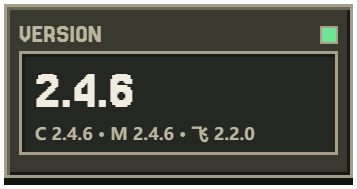
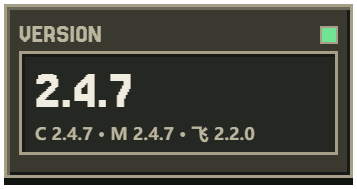
docs(release): 同步 2.4.7 文档、展示图与头图

Changed region(s): [[0.3081, 0.3704, 0.3697, 0.582], [0.2157, 0.6614, 0.2773, 0.7407], [0.4622, 0.6614, 0.493, 0.7407]]

diff --git a/README.md b/README.md
@@ -12,18 +12,18 @@
 </picture>
 
 <p>
-  <a href="https://github.com/Fish-under-sea/FISH-DOCK-Plugins/releases/tag/v2.4.6"><picture><source media="(prefers-color-scheme: dark)" srcset="assets/readme/config-stat-version-zh-dark.png"><img src="assets/readme/config-stat-version-zh-light.png" alt="VERSION：2.4.6（Magpie）；Clash 2.4.6" width="23%"></picture></a>
+  <a href="https://github.com/Fish-under-sea/FISH-DOCK-Plugins/releases/tag/v2.4.7"><picture><source media="(prefers-color-scheme: dark)" srcset="assets/readme/config-stat-version-zh-dark.png"><img src="assets/readme/config-stat-version-zh-light.png" alt="VERSION：2.4.7（Magpie）；Clash 2.4.7" width="23%"></picture></a>
   <a href="#plugins"><picture><source media="(prefers-color-scheme: dark)" srcset="assets/readme/config-stat-desktop-zh-dark.png"><img src="assets/readme/config-stat-desktop-zh-light.png" alt="PLUGINS：三个独立插件" width="23%"></picture></a>
   <a href="#packages"><picture><source media="(prefers-color-scheme: dark)" srcset="assets/readme/config-stat-mail-zh-dark.png"><img src="assets/readme/config-stat-mail-zh-light.png" alt="PACKAGES：三个 npm 单包" width="23%"></picture></a>
   <a href="https://github.com/Fish-under-sea/FISH-Dock"><picture><source media="(prefers-color-scheme: dark)" srcset="assets/readme/config-stat-channels-zh-dark.png"><img src="assets/readme/config-stat-channels-zh-light.png" alt="HOST API：1，兼容 FISH Dock 2.0.0+" width="23%"></picture></a>
 </p>
 
-<p><img src="https://img.shields.io/badge/Node.js-24.14%2B-8fd6a0?style=flat-square&amp;logo=nodedotjs&amp;logoColor=white&amp;labelColor=5a544a" alt="Node.js 24.14+"> <img src="https://img.shields.io/badge/Adapter%20License-MIT-8fd6a0?style=flat-square&amp;labelColor=5a544a" alt="插件适配代码许可 MIT"> <img src="https://img.shields.io/badge/mihomo-GPL--3.0-f08a5d?style=flat-square&amp;labelColor=5a544a" alt="随包 mihomo 许可 GPL-3.0"> <img src="https://img.shields.io/badge/Plugins-2.4.6-8fd6a0?style=flat-square&amp;labelColor=5a544a" alt="Clash 2.4.6 与 Magpie 2.4.6"></p>
+<p><img src="https://img.shields.io/badge/Node.js-24.14%2B-8fd6a0?style=flat-square&amp;logo=nodedotjs&amp;logoColor=white&amp;labelColor=5a544a" alt="Node.js 24.14+"> <img src="https://img.shields.io/badge/Adapter%20License-MIT-8fd6a0?style=flat-square&amp;labelColor=5a544a" alt="插件适配代码许可 MIT"> <img src="https://img.shields.io/badge/mihomo-GPL--3.0-f08a5d?style=flat-square&amp;labelColor=5a544a" alt="随包 mihomo 许可 GPL-3.0"> <img src="https://img.shields.io/badge/Plugins-2.4.7-8fd6a0?style=flat-square&amp;labelColor=5a544a" alt="Clash 2.4.7 与 Magpie 2.4.7"></p>
 <p><strong>FISH Plugins &amp; Configuration · 插件配置仓</strong><br>官方插件、配置说明与发行入口；按需安装，独立运行。</p>
 
 <p>
   <a href="#get-started"><picture><source media="(prefers-color-scheme: dark)" srcset="assets/readme/key-download-zh-dark.png"><img src="assets/readme/key-download-zh-light.png" alt="下载 / Releases" height="40"></picture></a>
-  <a href="https://github.com/Fish-under-sea/FISH-DOCK-Plugins/releases/tag/v2.4.6"><picture><source media="(prefers-color-scheme: dark)" srcset="assets/readme/key-release-zh-dark.png"><img src="assets/readme/key-release-zh-light.png" alt="更新记录" height="40"></picture></a>
+  <a href="https://github.com/Fish-under-sea/FISH-DOCK-Plugins/releases/tag/v2.4.7"><picture><source media="(prefers-color-scheme: dark)" srcset="assets/readme/key-release-zh-dark.png"><img src="assets/readme/key-release-zh-light.png" alt="更新记录" height="40"></picture></a>
   <a href="https://github.com/Fish-under-sea/FISH-DOCK-Plugins/issues"><picture><source media="(prefers-color-scheme: dark)" srcset="assets/readme/key-issues-zh-dark.png"><img src="assets/readme/key-issues-zh-light.png" alt="反馈 / Issues" height="40"></picture></a>
 </p>
 
@@ -33,12 +33,13 @@
 
 这里是 FISH Dock 的插件配置仓，集中提供三个官方插件的功能介绍、配置说明、安装包和更新记录。下载标准 `.fish-plugin` 包后，可在 Dock 的「插件」页导入；也可以通过 npm 获取对应插件归档。
 
-每个插件独立保存配置与凭据，按需启动，不共享业务密钥。插件仓只发布插件资源，桌面安装包请前往 [FISH-Dock](https://github.com/Fish-under-sea/FISH-Dock)。
+每个插件独立保存配置与凭据，按需启动，不共享业务密钥。插件仓只发布插件资源，桌面安装包请前往 [FISH-Dock](https://github.com/Fish-under-sea/FISH-Dock) 。
 
-当前发行（以 `catalog/stable.json` 为唯一权威）：Magpie **2.4.6**（原生标识 `v0.1.4344+fish.46`，要求 FISH Dock ≥ 2.3.4）、Clash **2.4.6**、飞书 **2.2.0**。本版详见 [2.4.6 发行说明](docs/releases/2.4.6.md)（上游基线追平至 `v0.1.4344`、Obsidian 记忆 Agent UX 收敛/全汉化/提示词重写、`0%` 液态玻璃真全透与 Clash 运行提示横幅液态玻璃胶囊）；上版详见 [2.4.5 发行说明](docs/releases/2.4.5.md)。
+当前发行（以 `catalog/stable.json` 为唯一权威）：Magpie **2.4.7**（原生标识 `v0.1.4344+fish.47`，要求 FISH Dock ≥ 2.3.4）、Clash **2.4.7**（要求 FISH Dock ≥ 2.0.0）、飞书 **2.2.0**。本版详见 [2.4.7 发行说明](docs/releases/2.4.7.md) （Magpie 外圈与嵌套液态玻璃、节点/按钮/选中态修复、字体配色命中与紫色 Obsidian 图标；Clash TUN 稳定性、并发锁与网速优化，及输入框/下拉框/设置页交互修复）；上版详见 [2.4.6 发行说明](docs/releases/2.4.6.md) 。
 
-**最近版本**（当前 2.4.6；每一版的完整说明见 [docs/releases](docs/releases)）
+**最近版本**（当前 2.4.7；每一版的完整说明见 [docs/releases](docs/releases) ）
 
+- **2.4.7** · Magpie（`fish.47`）：补全 `.rt`、`.lib-card`、`.msk-*`、`.pr-*`、`.pu-*` 等外圈卡片与内层液态玻璃，清除 `.rt-hub` 4px 黑环与路由组/请求列表等黑块悬浮选中态，统一全站玻璃按钮样式；补齐 `--ctl-fg`、暗色字体权重与全局 `::placeholder` 调色命中；替换 Obsidian 紫色晶石图标。Clash：修复 TUN 服务自删、读写竞态断连、无内核独立开启与并发锁，优化 TUN 网速路由与 DNS 配置，修正输入框次要文字着色、节点组弹窗向下滚动展开、长日志换行与设置页头部 `16px` 边距。→ [说明](docs/releases/2.4.7.md)
 - **2.4.6** · Magpie：追平上游 `v0.1.4344`（`fish.46`），Obsidian 记忆 UX 收敛、`.lib-memrun` 常驻全汉化与一键整理开关、`menuButton` 二次点击关闭、`rules.js` 随包部署、记忆提示词与 `AGENTS.md` 重写（`Sandbox.Write` 允许 `dreams/` 并移除 `memories/` 直接写入），修复 `#000000` 玻璃颜色 `0%` 不透明度仍残余黑底与分隔线及 Agents 页 `Obsidian 记忆 Agent` 详情重叠；Clash：补全 `.banner` 运行提示条 360° Fresnel 液态玻璃胶囊。→ [说明](docs/releases/2.4.6.md)
 - **2.4.5** · Magpie：Obsidian 记忆功能纳入 `.obsidian` 统一工作区正式 Agent（`fish.45`）；用量四页签等 159 条液态玻璃表面规则与独立玻璃颜色（`fishGlassColor`）解耦强调色，修复侧边栏真全透与零滤镜（`fish.44`）。Clash：TUN 服务恢复（`job.ini` 监听/BOM 剥离/`hostGone`）与切换回滚修复，对齐 360° Fresnel 液态玻璃、滚动条/过滤框与下拉交互。→ [说明](docs/releases/2.4.5.md)
 - **2.4.4** · Magpie：外观页签图标补齐；底图遮挡改为 `--wall-veil` 并在滑块松手后重画，从此真正生效；回滚改坏的侧栏内滚；玻璃覆盖改由 `tools/glass-surfaces.mjs` 从 `app.css` 生成。Clash：适配宿主页桥 2 MiB 上限，壁纸预算 1.5 MiB，超限不再假死。→ [说明](docs/releases/2.4.4.md)
@@ -51,39 +52,39 @@
 
 > ⚠ **2.0.0 是 breaking 版本**：插件清单新增 `behaviors` 字段，FISH Dock 1.2.3 及更早的宿主用 `deny_unknown_fields` 解析，会以「plugin.json 格式无效或含未知字段」直接拒装。**旧宿主请先把 Dock 升到 2.0.0**，再安装这些插件。
 
-> ⚠ npm 上 `@fish-under-sea/fish-dock-plugin-clash@1.1.0` 为误发版本（基于旧基线，缺少 1.0.4 的多订阅修复），请勿使用；当前 Magpie 单包是 `2.4.6`、Clash 是 `2.4.6`、飞书是 `2.2.0`，OFM 停在 `2.0.1`（已退役）。
+> ⚠ npm 上 `@fish-under-sea/fish-dock-plugin-clash@1.1.0` 为误发版本（基于旧基线，缺少 1.0.4 的多订阅修复），请勿使用；当前 Magpie 单包是 `2.4.7`、Clash 是 `2.4.7`、飞书是 `2.2.0`，OFM 停在 `2.0.1`（已退役）。
 
 <h2 id="plugins"><picture><source media="(prefers-color-scheme: dark)" srcset="assets/readme/section-features-dark.png"><img src="assets/readme/section-features-light.png" alt="PLUGINS · 三个插件" width="100%"></picture></h2>
 
 ### 飞书通知
 
-群机器人通知、事件筛选和签名配置。Webhook 与签名密钥保存在插件自己的加密凭据空间。作者：WTStarMark、FISH。没有本机服务，插件卡上显示「无需自启动」。
+面向飞书群机器人的消息通知插件，支持事件筛选、消息模版和签名测试。Webhook 与签名密钥保存在插件独立加密凭据空间中，无本机后台服务，插件卡上显示「无需自启动」。作者：WTStarMark、FISH。
 
 <p align="center"><img src="assets/readme/feishu.png" width="760" alt="飞书通知插件界面"></p>
 
 ### Clash 代理
 
-基于 mihomo 的代理管理，提供订阅、节点、规则和系统代理控制。代理内核只绑定回环地址。作者：Elysia395、FISH。
+基于 `mihomo`（`v1.19.15`）内核的桌面代理控制插件，随包内置 `GeoSite.dat` 与 `GeoIP.dat` 规则数据，支持多订阅校验切换、代理组与节点延迟测速、Windows 系统代理接管与自愈看门狗、Windows TUN 虚拟网卡服务管理，以及独立「外观」调节与 360° Fresnel 液态玻璃主题。代理内核仅绑定本地回环地址，与宿主页状态同步互锁。作者：Elysia395、FISH。
 
 <p align="center"><img src="assets/readme/clash.png" width="760" alt="Clash 代理插件界面"></p>
 
 ### Magpie 网关
 
-独立模型网关与原生管理页。管理页、模型网关和 Dock 嵌入代理使用独立回环端口，避免相互占用。网关页与服务页共用一颗「自启动」胶囊，决定服务是否随 Dock 启动；插件卡上是同一份状态。签到页随包内置，按厂商分组、支持一键签到与积分刷新。作者：FISH、Jassdingk。
+独立多模型网关与原生桌面管理页，统一管理订阅源、API Key、智能路由组与用量统计，并内置 Obsidian 知识库记忆 Agent，可直接串联多款本地 Coding Agent。管理页、模型网关与 Dock 嵌入代理各自采用独立回环端口，并与宿主插件卡共用「自启动」开关；界面支持四区域 360° Fresnel 液态玻璃、自定义壁纸与多层级字体配色。扩展页面插件（如「签到 & 探针」与「破甲」）按 npm 包登记并交由 Magpie 自主拉取更新。作者：FISH、Jassdingk。
 
 <p align="center"><img src="assets/readme/magpie.png" width="760" alt="Magpie 网关插件界面"></p>
 
 ### OFM 本地模型（不再随 Dock 显示）
 
-本地模型渠道和 API 工作台。**自 2026 年 10 月 25 日起暂停维护，也不再在 Dock 的插件页里出现**——需要的从 [GitHub Release](https://github.com/Fish-under-sea/FISH-DOCK-Plugins/releases/download/v2.0.1/ofm.fish-plugin) 或 npm 手动装（版本停在 `2.0.1`）。已经装好的版本可以继续用，配置与数据保留；要模型网关请迁移到 Magpie。作者：FISH。
+本地模型渠道和 API 工作台。**自 2026 年 10 月 25 日起暂停维护，也不再在 Dock 的插件页里出现**——需要的可从 [GitHub Release](https://github.com/Fish-under-sea/FISH-DOCK-Plugins/releases/download/v2.0.1/ofm.fish-plugin) 或 npm 手动安装（版本停在 `2.0.1`）。已安装版本可继续使用，配置与数据保留；新用户建议使用 Magpie 网关。作者：FISH。
 
 <h2 id="get-started"><picture><source media="(prefers-color-scheme: dark)" srcset="assets/readme/section-install-dark.png"><img src="assets/readme/section-install-light.png" alt="INSTALL · 安装使用" width="100%"></picture></h2>
 
-安装前先核对宿主版本：Magpie 是 2.4.6（要求 FISH Dock ≥ 2.3.4）、Clash 是 2.4.6、飞书是 2.2.0，**FISH Dock 需要 2.0.0 及以上**；1.2.3 及更早的宿主会因清单里的 `behaviors` 字段拒装。
+安装前先核对宿主版本：Magpie 是 2.4.7（要求 FISH Dock ≥ 2.3.4）、Clash 是 2.4.7、飞书是 2.2.0，**FISH Dock 需要 2.0.0 及以上**；1.2.3 及更早的宿主会因清单里的 `behaviors` 字段拒装。
 
 **方式一：Dock 内插件市场（推荐）**
 
-1. 安装 [FISH Dock 2.0.0](https://github.com/Fish-under-sea/FISH-Dock/releases/tag/v2.0.0)。
+1. 安装 [FISH Dock 2.0.0](https://github.com/Fish-under-sea/FISH-Dock/releases/tag/v2.0.0) 。
 2. 打开「插件」页 →「检查更新」：官方目录（本仓 `catalog/stable.json`）会列出这三个插件，勾选后确认安装。
 3. 安装后确认运行状态；需要账号或订阅的插件，再进入对应页面完成配置。
 
@@ -98,22 +99,22 @@
 | 插件 | GitHub 包 | npm 单包 |
 | --- | --- | --- |
 | 飞书 2.2.0 | [`feishu.fish-plugin`](https://github.com/Fish-under-sea/FISH-DOCK-Plugins/releases/download/v2.2.0/feishu.fish-plugin) | [`@fish-under-sea/fish-dock-plugin-feishu`](https://www.npmjs.com/package/@fish-under-sea/fish-dock-plugin-feishu/v/2.2.0) |
-| Clash 2.4.6 | [`clash.fish-plugin`](https://github.com/Fish-under-sea/FISH-DOCK-Plugins/releases/download/v2.4.6/clash.fish-plugin) | [`@fish-under-sea/fish-dock-plugin-clash`](https://www.npmjs.com/package/@fish-under-sea/fish-dock-plugin-clash/v/2.4.6) |
-| Magpie 2.4.6 | [`magpie.fish-plugin`](https://github.com/Fish-under-sea/FISH-DOCK-Plugins/releases/download/v2.4.6/magpie.fish-plugin) | [`@fish-under-sea/fish-dock-plugin-magpie`](https://www.npmjs.com/package/@fish-under-sea/fish-dock-plugin-magpie/v/2.4.6) |
+| Clash 2.4.7 | [`clash.fish-plugin`](https://github.com/Fish-under-sea/FISH-DOCK-Plugins/releases/download/v2.4.7/clash.fish-plugin) | [`@fish-under-sea/fish-dock-plugin-clash`](https://www.npmjs.com/package/@fish-under-sea/fish-dock-plugin-clash/v/2.4.7) |
+| Magpie 2.4.7 | [`magpie.fish-plugin`](https://github.com/Fish-under-sea/FISH-DOCK-Plugins/releases/download/v2.4.7/magpie.fish-plugin) | [`@fish-under-sea/fish-dock-plugin-magpie`](https://www.npmjs.com/package/@fish-under-sea/fish-dock-plugin-magpie/v/2.4.7) |
 
 <h2 id="packages"><picture><source media="(prefers-color-scheme: dark)" srcset="assets/readme/section-packages-dark.png"><img src="assets/readme/section-packages-light.png" alt="PACKAGES · npm 单包" width="100%"></picture></h2>
 
-每个 npm 包只包含一个对应的插件归档和下载 CLI（bin 名 `fish-dock-plugin-<插件>`），不运行安装后脚本，不修改 Dock 或系统设置。当前 npm 上 **Magpie 是 2.4.6、Clash 是 2.4.6、飞书是 2.2.0**（OFM 单包停在 2.0.1，已退役只供手动下载），要求 **Node.js ≥ 24** 与 **FISH Dock ≥ 2.0.0**。
+每个 npm 包只包含一个对应的插件归档和下载 CLI（bin 名 `fish-dock-plugin-<插件>`），不运行安装后脚本，不修改 Dock 或系统设置。当前 npm 上 **Magpie 是 2.4.7、Clash 是 2.4.7、飞书是 2.2.0**（OFM 单包停在 2.0.1，已退役只供手动下载），要求 **Node.js ≥ 24** 与 **FISH Dock ≥ 2.0.0**。
 
 | npm 单包（完整包名） | 版本 | bin | `npm pack` 体积 |
 | --- | --- | --- | --- |
 | `@fish-under-sea/fish-dock-plugin-feishu` | 2.2.0 | `fish-dock-plugin-feishu` | 38.6 kB（6 个文件） |
-| `@fish-under-sea/fish-dock-plugin-clash` | 2.4.6 | `fish-dock-plugin-clash` | 16.9 MB（7 个文件，含 mihomo 许可） |
-| `@fish-under-sea/fish-dock-plugin-magpie` | 2.4.6 | `fish-dock-plugin-magpie` | 49.7 MB（7 个文件，含 Magpie 许可） |
+| `@fish-under-sea/fish-dock-plugin-clash` | 2.4.7 | `fish-dock-plugin-clash` | 16.9 MB（7 个文件，含 mihomo 许可） |
+| `@fish-under-sea/fish-dock-plugin-magpie` | 2.4.7 | `fish-dock-plugin-magpie` | 50.2 MB（7 个文件，含 Magpie 许可） |
 | `@fish-under-sea/fish-dock-plugin-ofm` | 2.0.1（暂停维护，仅手动） | `fish-dock-plugin-ofm` | 1.9 MB（6 个文件） |
 
 ```powershell
-npm install @fish-under-sea/fish-dock-plugin-clash@2.4.6
+npm install @fish-under-sea/fish-dock-plugin-clash@2.4.7
 npx @fish-under-sea/fish-dock-plugin-clash --out C:/work/plugins
 ```
 
@@ -125,9 +126,9 @@ npx @fish-under-sea/fish-dock-plugin-clash --out C:/work/plugins
 
 ```powershell
 node tools/stage-development.mjs --out C:/work/preview-plugins --sdk ../FISH-Dock/sdk --magpie C:/work/runtimes/magpie.exe --mihomo C:/work/runtimes/mihomo.exe
-node tools/build-release.mjs --out C:/work/release-2.4.0 --sdk ../FISH-Dock/sdk --magpie C:/work/runtimes/magpie.exe --mihomo C:/work/runtimes/mihomo.exe --version 2.4.0
-node tools/build-npm-packages.mjs --dist C:/work/release-2.4.0/dist --out C:/work/npm-plugin-packages-2.4.0
-node --test --test-isolation=none 'plugins/feishu/*.test.mjs' 'plugins/clash/*.test.mjs' 'plugins/magpie/*.test.mjs' 'shared/*.test.mjs' 'tools/*.test.mjs'
+node tools/build-release.mjs --out C:/work/release-2.4.7 --sdk ../FISH-Dock/sdk --magpie C:/work/runtimes/magpie.exe --mihomo C:/work/runtimes/mihomo.exe --version 2.4.7
+node tools/build-npm-packages.mjs --dist C:/work/release-2.4.7/dist --out C:/work/npm-plugin-packages-2.4.7
+node --test --test-isolation=none 'plugins/feishu/*.test.mjs' 'plugins/clash/*.test.mjs' 'plugins/magpie/*.test.mjs' 'shared/*.test.mjs' 'tools/*.test.mjs' 'plugins/magpie/obsidian-plugin/*.test.cjs'
 ```
 
 ### 文档
@@ -141,7 +142,7 @@ node --test --test-isolation=none 'plugins/feishu/*.test.mjs' 'plugins/clash/*.t
 | [自编译 Magpie](plugins/magpie/tools/README.md) | 补丁清单与每一处为什么补、构建命令、版本标识、跟着上游升级时会踩的坑 |
 | [签到&探针说明](https://github.com/Fish-under-sea/magpie-checkin-relay-probe) | 宿主提供哪些读与调用、「预装插件美化」开关怎么工作、素材为什么编进 exe |
 | [厂商素材来源](https://github.com/Fish-under-sea/magpie-checkin-relay-probe/tree/main/page/checkin/logos) | 每张厂商图的来源、裁切范围与授权状况 |
-| [发行说明](docs/releases/) | 逐版本的改动与验证；最新是 [2.4.6](docs/releases/2.4.6.md) |
+| [发行说明](docs/releases/) | 逐版本的改动与验证；最新是 [2.4.7](docs/releases/2.4.7.md) |
 | [第三方许可](THIRD_PARTY_NOTICES.md) | 随包运行时的许可与来源（mihomo 的 GPL-3.0、Magpie 的随包许可等） |
 | [README 头图维护](assets/readme/MAINTAINING.md) | 头图怎么渲染、字号与卡片尺寸的约束、哪些东西不能换 |
 
@@ -155,7 +156,7 @@ node --test --test-isolation=none 'plugins/feishu/*.test.mjs' 'plugins/clash/*.t
 
 整个 Magpie 插件的地基。供应商注册、页面与面板桥、签到与额度读取、网关路由，全部是上游的代码；本仓写着「Magpie 插件」的那层，实际上只是它的适配层、页面与发布工具。
 
-本仓发布的 `magpie.fish-plugin` 走的是**其源码自编译**：基线上游 tag（当前 `v0.1.4344`），加上 `patches/` 里我们自己的累计补丁（当前累计至 `fish.46`：页面在 CSP 沙箱里发不出任何请求，所以补一条 `magpie.call` 通道，并陆续补入本地素材接管、液态玻璃适配与 Obsidian 记忆 Agent 等增强）。补丁的每一处、为什么补、怎么复现，都写在 [plugins/magpie/tools/README.md](plugins/magpie/tools/README.md) 里。上游的版本标识与第三方声明随包保留（`licenses/Magpie.txt`）。
+本仓发布的 `magpie.fish-plugin` 走的是**其源码自编译**：基线上游 tag（当前 `v0.1.4344`），加上 `patches/` 里我们自己的累计补丁（当前累计至 `fish.47`：页面在 CSP 沙箱里发不出任何请求，所以补一条 `magpie.call` 通道，并陆续补入本地素材接管、全页面液态玻璃适配与自定义字体调色命中、Obsidian 记忆 Agent 与紫色晶石图标等增强）。补丁的每一处、为什么补、怎么复现，都写在 [plugins/magpie/tools/README.md](plugins/magpie/tools/README.md) 里。上游的版本标识与第三方声明随包保留（`licenses/Magpie.txt`）。
 
 ### [mihomo](https://github.com/MetaCubeX/mihomo) · Clash 内核
 

diff --git a/docs/releases/2.4.7.md b/docs/releases/2.4.7.md
@@ -1,0 +1,50 @@
+# FISH DOCK Plugins 2.4.7 发行说明
+
+**Magpie `2.4.7`**（上游基线 `yetone/magpie@v0.1.4344`，累计补丁 `v0.1.4344+fish.47` / Windows FileVersion `0.1.4344.47`，要求宿主 FISH Dock ≥ 2.3.4）、**Clash `2.4.7`**（要求宿主 FISH Dock ≥ 2.0.0），**飞书维持 `2.2.0`** 不动。
+
+## Magpie `2.4.7`（`v0.1.4344+fish.47`）
+
+### 1. 外圈与嵌套液态玻璃修复
+
+- 在 `internal/gui/assets/fish-glass.css` 中补全外圈玻璃容器覆盖清单（包括 `.rt` 路由舞台/日志卡、`.lib-card:not(.lib-install)`、`.lib-empty`、`.mk-card`、`.msk-card` / `.msk-req` / `.msk-blocked` / `.msk-content` / `.msk-how` / `.msk-demo`、`.pr-stage` / `.pr-picks` / `.pr-none` / `.pr-list`、`.pu-tot` / `.pu-heat`、`.rt-gimport`），完整启用 `position: relative`、`backdrop-filter`、凸面釉光 `::before`、360° conic 绕边高光 `::after` 与降透回退，修复 `0%` 填充下外框全透明的问题。
+- 为 `.rt` 内部子卡片（`.ctx-card`、`.rt-node`、`.rt-accts li`、`.rt-bodies`、`.rt-ctx-s:not([aria-pressed="true"])`、`.rt-session`）补充去重嵌套玻璃规则，关闭内部双重 `backdrop-filter` 并保留细描边。
+
+### 2. 黑框、黑环与交互态统一
+
+- 覆写 `.rt .rt-node.rt-hub`、`.rt .rt-hub i` 与 `.rt-hub i.rt-go:hover/:focus-visible`，彻底消除 `magpie` 节点周边 `4px` `var(--card-2)` 黑色外环与实色反白徽标；同步清理 `.msk-hub`、`.ps-hub`、`.ps-node`、`.lib-hubstack > *`、`.lib-hubnode` 与 `body.panel .ag-fix` 实心描边。
+- 在 `gen:glass-surfaces:end` 之后覆盖全部深色悬浮与选中态：修复路由组 `.rt-group:hover`、请求列表 `.rt-req[aria-pressed="true"]` / `.rt-req:hover`、`.rt-ctx-s[aria-pressed="true"]`、`.rt-group.rt-gpick.on`、`.msk-facet[aria-pressed="true"]`、`.msk-val[aria-pressed="true"]`、`.rt-pick.on`、`.rt-day.on`、`#view-providers .row.pv-pick.picked`、`.provider.selected`、`.lib-row.click:hover`、`.pm-list .row:hover` 等黑色背景块。
+- 从误清空规则中移除 `.text.action`、`.lib-tag` 与 `.lib-glyph`，统一 `.pm-act` / `.pm-act.ghost`（详情）/ `.pm-pop` / `.ag-show`（收起）/ `.ag-add` / `.text.action` / `.rt-pick` / `.rt-day` / `.rt-group button.tag.rt-groute` / `.chip` 等控件为液态玻璃按钮，并为 `button.primary`、`.text.primary`、`.pm-dact .pm-act.go` 统一液态渐变主按钮样式。
+
+### 3. 字体颜色命中与 Obsidian 紫色图标
+
+- 在 `internal/gui/appearance.go`、`assets/app.js`（`applyFontColors`）与 `assets/appearance.js` 补全 `--ctl-fg` 输出与 `html:not(.omarchy):root` 暗色主题权重覆写，确保标签页、分段按钮与操作文本准确跟随自定义字体颜色；更新 `core_budget_test.go` 核心脚本预算（`appScriptBudget = 1_091_412`、`coreScriptBudget = 1_277_876`）。
+- 在 `internal/gui/assets/app.css` 全局添加 `input::placeholder, textarea::placeholder { color: var(--faint); opacity: 1; }`，使插件页手动输入框等占位文字正确命中字体配色。
+- 新增多切面紫色晶石 `internal/gui/assets/icons/obsidian-color.svg`，并在 `icon()` 中将 `obsidian` 指向彩色版本（保持后端 `Icon: "obsidian"` 不变）。
+
+## Clash `2.4.7`
+
+### 1. TUN 稳定性、流程锁与网速优化
+
+- **防止 TUN 服务自删与读写竞态断连**（`plugins/clash/service/tun-service.cs` / `tun-service.exe`、`tun.mjs`、`service.mjs`）：移除自删除与配置清理路径；`ReadJob()` / `HostIsGone()` 改用共享读与瞬态重试，`HostIsGone()` 增加 3 次宽限；`writeJob()` 支持临时文件原子写入并在受限 ACL 下回退单次写；接管真实运行服务后自动续签宿主 PID 租约。
+- **完善并发流程锁与无内核约束**（`service.mjs`、`runtime.mjs`、`page.js`）：禁止内核未运行或 TUN 服务未安装时独立启用 TUN（返回 `KERNEL_NOT_RUNNING`）；`tunSwitch`、`start`、`stop`、`editable`、`reload`、`proxy` 全链路补齐 `tunBusy`（`KERNEL_SWITCHING`）互锁，失败回滚并回收半启动 TUN 状态防止断网；前端 `page.js` 在未运行或切换中禁用相应操作开关。
+- **修复 TUN 模式下网速异常变慢**（`runtime.mjs`）：默认启用 `find-process-mode: 'off'` 与 `keep-alive-idle` / `keep-alive-interval`，开启 TUN 时补全 `ipv6: false`、`tun.mtu: 1500`、`strict-route: true`、`dns-hijack`、`route-exclude-address`、`dns.default-nameserver` / `proxy-server-nameserver` / `fake-ip-filter` 与 `sniffer`，并在启动 TUN 前清理指向自身混合端口的遗留系统代理。
+
+### 2. 面板 UI 与交互修复
+
+- **输入框占位文字着色**（`plugins/clash/page.css`）：`input::placeholder, textarea::placeholder` 绑定 `var(--dock-muted)`，随「次要文字」配色生效。
+- **节点组弹窗优先向下展开**（`plugins/clash/page.js` `openListbox`）：下方视口空间不足时先向下滚动 `#pane` 并重测触发器坐标，避免误向上弹出遮挡订阅卡片。
+- **内核设置长路径换行与头部间距修正**（`plugins/clash/page.css`）：`.tun-box` 增加 `min-inline-size: 0`，`.svc-log` 与 `.tun-service p` 允许折行与内部滚动；`.pane.settings` 恢复顶部与左侧 `16px` 内边距，防止「内核设置 / 外观」标题被顶部栏遮挡。
+
+## 构建产物与核验记录
+
+| 产物 | 版本 / 标识 | 字节数 | SHA-256 |
+| --- | --- | --- | --- |
[3 lines of base64/hex data omitted]
+
+- npm 单包：`@fish-under-sea/fish-dock-plugin-clash@2.4.7`（`16.9 MB` / 7 个文件）与 `@fish-under-sea/fish-dock-plugin-magpie@2.4.7`（`50.2 MB` / 7 个文件），经 Node 22 `verify-release.mjs` 与 `npm pack --dry-run` 校验一致。
+- 测试与校验：
+  - `node --test --test-isolation=none 'plugins/feishu/*.test.mjs' 'plugins/clash/*.test.mjs' 'plugins/magpie/*.test.mjs' 'shared/*.test.mjs' 'tools/*.test.mjs'` → `376` 项测试中 `369` 通过、`0` 失败、`7` 项受真实宿主/原生二进制/Playwright 环境变量前置条件控制跳过；
+  - `node --test 'plugins/magpie/obsidian-plugin/*.test.cjs'` → `15` 通过、`0` 失败；
+  - Magpie `v0.1.4344` + `fish.47` 补丁重放 `254` 文件 / `445` hunk 零冲突，`check-assets-refs.mjs`、`node --check`、`fish-glass.test.cjs`（`6/6` 通过）、Go 定向测试（`./internal/gui`、`./internal/agent`）及 `go build ./...` 均通过，Edge Headless DOM 验证计算样式生效。

diff --git a/plugins/magpie/tools/README.md b/plugins/magpie/tools/README.md
@@ -1,6 +1,6 @@
 # 自编译 magpie：构建与上游同步
 
-插件包里的 `service/magpie.exe` 由本目录的脚本编译：**基线 tag 由 `follow-upstream.ps1` 现场解析**（上游是 24h loop，写死必然过期），再加上 `patches/` 里序号最大的那份补丁。当前补丁链：**`fish.46`**（插件 2.4.6，基线 **v0.1.4344**：追平上游至 `v0.1.4344`（合并 `fish.42`–`fish.45` 液态玻璃颜色解耦/表面补全与 Obsidian 记忆 Agent 正式化），收敛 Obsidian 记忆 Agent 单一入口并移除冗余下拉与知识库搜索框、`.lib-memrun` 常驻全汉化与启停开关、修复 `menuButton` 二次点击关闭、重写记忆 Agent 提示词与 `Sandbox.Write`（允许 `dreams/`，移除 `memories/` 直接写入）、修复 `#000000` 玻璃颜色 `0%` 不透明度仍残留黑底与分隔线；`fish.41` 补上设置页「外观」页签的图标、撤回 2.4.3 里改坏的侧栏内滚、把壁纸遮罩改成 `--wall-veil` 变量并让外观表在滑块松手后重画（此前遮罩从未真正生效）、玻璃覆盖改由 `tools/glass-surfaces.mjs` 从 `app.css` 生成、字体颜色「清空」改「重置」、吸顶页头不再留深色唇边；`fish.40` 并入底图遮挡（`fishGlassVeil`）、字体颜色实时生效与记忆 Agent 面板中文化；`fish.39` 让壁纸遮罩随内容区不透明度自适应；`fish.38` 是插件 2.4.0 在 `fish.37` 之上并入 M-A3 派发接线、M-D 审计与冲突记录、M-E 的 magpie 侧 fish-vault 记忆 Agent 路由；`fish.37` 是记忆「Agent 化」的 M-A/M-B/M-C 并入 `fish.36` 外观；`fish.36` 是设置 › 外观独立分页、液态玻璃按区域调节并随主题下发给插件页、知识库链接改由适配层直接拉起、`fishvault` 链接空格改 `%20`；`fish.35` 是 2.3.8/2.3.9 的形态；`fish.34` 是插件 2.3.7；`fish.33` 是插件 2.3.6 在 v0.1.3596 上的形态；`fish.32` 是 2.3.6 修复版在 v0.1.3383 上的形态，`fish.31` 是 2.3.5）；旧补丁留在 `patches/` 备查：`fish.16`/`fish.15` 是 v0.1.2799 那条线（2.2.1/2.2.2 前半），`fish.13` 用于 2.1.9–2.2.0，`fish.12` 用于 2.1.8，2.1.4–2.1.7 是 `v0.1.2732` + `fish.9`–`fish.11`，2.1.3 及更早是 `v0.1.2336` + `fish.1`–`fish.8`。
+插件包里的 `service/magpie.exe` 由本目录的脚本编译：**基线 tag 由 `follow-upstream.ps1` 现场解析**（上游是 24h loop，写死必然过期），再加上 `patches/` 里序号最大的那份补丁。当前补丁链：**`fish.47`**（插件 `2.4.7`，基线 **`v0.1.4344`**：在 `fish.46` 之上补全 `.rt`、`.lib-card`、`.msk-*`、`.pr-*`、`.pu-*` 等外圈卡片与内层液态玻璃规则，清除 `.rt-hub` 4px 黑环及路由组/请求列表等黑块选中悬浮态、统一全站按钮玻璃样式，在 `appearance.go` / `app.js` / `appearance.js` / `app.css` 补全 `--ctl-fg`、暗色字体权重与全局 `::placeholder` 调色命中，并加入紫色晶石 `icons/obsidian-color.svg`；`fish.46` 为追平上游 `v0.1.4344` 并合入 Obsidian 记忆 Agent 单一入口、`.lib-memrun` 常驻全汉化与启停开关、修复 `menuButton` 二次点击关闭、重写记忆提示词与 `Sandbox.Write`、`#000000` 玻璃 `0%` 全透明与 `.ag-obs-detail` 排版；`fish.41` 补上设置页「外观」页签的图标、撤回 2.4.3 里改坏的侧栏内滚、把壁纸遮罩改成 `--wall-veil` 变量并让外观表在滑块松手后重画（此前遮罩从未真正生效）、玻璃覆盖改由 `tools/glass-surfaces.mjs` 从 `app.css` 生成、字体颜色「清空」改「重置」、吸顶页头不再留深色唇边；`fish.40` 并入底图遮挡（`fishGlassVeil`）、字体颜色实时生效与记忆 Agent 面板中文化；`fish.39` 让壁纸遮罩随内容区不透明度自适应；`fish.38` 是插件 2.4.0 在 `fish.37` 之上并入 M-A3 派发接线、M-D 审计与冲突记录、M-E 的 magpie 侧 fish-vault 记忆 Agent 路由；`fish.37` 是记忆「Agent 化」的 M-A/M-B/M-C 并入 `fish.36` 外观；`fish.36` 是设置 › 外观独立分页、液态玻璃按区域调节并随主题下发给插件页、知识库链接改由适配层直接拉起、`fishvault` 链接空格改 `%20`；`fish.35` 是 2.3.8/2.3.9 的形态；`fish.34` 是插件 2.3.7；`fish.33` 是插件 2.3.6 在 v0.1.3596 上的形态；`fish.32` 是 2.3.6 修复版在 v0.1.3383 上的形态，`fish.31` 是 2.3.5）；旧补丁留在 `patches/` 备查：`fish.16`/`fish.15` 是 v0.1.2799 那条线（2.2.1/2.2.2 前半），`fish.13` 用于 2.1.9–2.2.0，`fish.12` 用于 2.1.8，2.1.4–2.1.7 是 `v0.1.2732` + `fish.9`–`fish.11`，2.1.3 及更早是 `v0.1.2336` + `fish.1`–`fish.8`。
 
 ## 2.4.0 / fish.37 + fish.38：记忆 Agent 化（内置，M-A 到 M-E）
 

diff --git a/docs/developers/README.md b/docs/developers/README.md
@@ -1,6 +1,6 @@
 # 插件开发者指南
 
-当前协议为 v1。目录里当前是飞书 **2.2.0**、Clash **2.4.6**、Magpie **2.4.6**（后者原生标识 `v0.1.4344+fish.46`，要求宿主 ≥2.3.4）——液态玻璃按区域精细调节与独立玻璃颜色、「外观」独立分页、原生服务内置记忆 Agent 与 Obsidian `.obsidian` 统一工作区；作者用数组、不再有维护者字段。OFM 已退役（2026-10-25 暂停维护，2.3.0 起移出官方目录与活动构建链），历史适配层见 [docs/archive/ofm](../archive/ofm/README.md)，不再随目录发行。两个内置件按 npm 包登记、不单独发行：`@fish-under-sea/magpie-checkin-relay-probe`（签到与中转站探针合一的页面插件）与 `@fish-under-sea/magpie-purge`（破甲），首装与后续更新都交给 magpie 自己的更新循环，Dock 不随包分发它们的目录。两者的源码分别在 [magpie-checkin-relay-probe](https://github.com/Fish-under-sea/magpie-checkin-relay-probe) 与 [magpie-purge](https://github.com/Fish-under-sea/magpie-purge)。源码已接入独立后台、分类存储和业务页面；发行资源与线上索引由插件仓 Release 提供。
+当前协议为 v1。目录里当前是飞书 **2.2.0**、Clash **2.4.7**、Magpie **2.4.7**（后者原生标识 `v0.1.4344+fish.47`，要求宿主 ≥ 2.3.4）——Magpie 具备四区域液态玻璃与独立玻璃颜色、全页面控件/选中/悬浮玻璃样式统一、多层级字体调色（含 `--ctl-fg` 与全局占位符）命中、「外观」独立分页、原生服务内置记忆 Agent（含紫色晶石 Obsidian 图标）与 Obsidian `.obsidian` 统一工作区；Clash 具备多订阅管理、自愈看门狗、Windows TUN 虚拟网卡服务控制与独立外观设置。作者用数组、不再有维护者字段。OFM 已退役（2026-10-25 暂停维护，2.3.0 起移出官方目录与活动构建链），历史适配层见 [docs/archive/ofm](../archive/ofm/README.md) ，不再随目录发行。两个内置件按 npm 包登记、不单独发行：`@fish-under-sea/magpie-checkin-relay-probe`（签到与中转站探针合一的页面插件）与 `@fish-under-sea/magpie-purge`（破甲），首装与后续更新都交给 magpie 自己的更新循环，Dock 不随包分发它们的目录。两者的源码分别在 [magpie-checkin-relay-probe](https://github.com/Fish-under-sea/magpie-checkin-relay-probe) 与 [magpie-purge](https://github.com/Fish-under-sea/magpie-purge) 。源码已接入独立后台、分类存储和业务页面；发行资源与线上索引由插件仓 Release 提供。
 
 ## 仓库边界
 
@@ -141,9 +141,10 @@ Magpie 的 `gateway.open` 是宿主提供的特定管理页入口，地址只接
 
 ```powershell
 node --test --test-isolation=none 'plugins/feishu/*.test.mjs' 'plugins/clash/*.test.mjs' 'plugins/magpie/*.test.mjs' 'shared/*.test.mjs' 'tools/*.test.mjs'
+node --test 'plugins/magpie/obsidian-plugin/*.test.cjs'
 ```
 
-`FISH_TEST_MAGPIE`、`FISH_TEST_MIHOMO` 与 `FISH_TEST_SDK` 启用真实服务验收。验证首次配置、保存失败、业务错误后的继续操作、端口占用、启动就绪、停止、连续启停、卸载保留资料，以及升级失败回滚。前端单测通过后，再用真实 WebView 核对页面加载、布局切换与键盘操作。
+`FISH_TEST_MAGPIE`、`FISH_TEST_MIHOMO`、`FISH_TEST_SDK`、`FISH_TEST_EDGE` 与 `FISH_TEST_PLAYWRIGHT` 用于启用真实服务或浏览器 UI 验收。验证首次配置、保存失败、业务错误后的继续操作、端口占用、启动就绪、停止、连续启停、卸载保留资料，以及升级失败回滚。前端单测通过后，再用真实 WebView 核对页面加载、布局切换与键盘操作。
 
 发行制作、固定来源与商店更新顺序见 [维护者指南](../maintainers/README.md)。
 

diff --git a/docs/maintainers/README.md b/docs/maintainers/README.md
@@ -1,8 +1,8 @@
 # 插件维护者指南
 
-2.0.0 把当时的四个官方插件一起升到大版本：飞书、Clash、Magpie、OFM 全部 2.0.0，配套 FISH Dock 2.0.0+。作者改为数组、维护者字段整体去掉。OFM 已于 2026-10-25 暂停维护，2.3.0 起从官方目录与活动构建链退役，历史适配层见 [docs/archive/ofm](../archive/ofm/README.md)。Magpie 随包的原生服务早已不是官方版：2.0.1 起是**源码自编译**（基线上游 tag 加我们自己的补丁，当前 `v0.1.4344+fish.46`），原因与补丁清单见 [自编译说明](../../plugins/magpie/tools/README.md)。
+2.0.0 把当时的四个官方插件一起升到大版本：飞书、Clash、Magpie、OFM 全部 2.0.0，配套 FISH Dock 2.0.0+。作者改为数组、维护者字段整体去掉。OFM 已于 2026-10-25 暂停维护，2.3.0 起从官方目录与活动构建链退役，历史适配层见 [docs/archive/ofm](../archive/ofm/README.md) 。Magpie 随包的原生服务早已不是官方版：2.0.1 起是**源码自编译**（基线上游 tag 加我们自己的补丁，当前 `v0.1.4344+fish.47`），原因与补丁清单见 [自编译说明](../../plugins/magpie/tools/README.md) 。
 
-**当前版本**（以 `catalog/stable.json` 为唯一权威）：飞书 **2.2.0**、Clash **2.4.6**、Magpie **2.4.6**（exe `v0.1.4344+fish.46`，追平上游并完成 Obsidian 记忆 Agent 交互/提示词与 0% 液态玻璃全透明修复；Clash 同步补全运行提示横幅 `.banner` 液态玻璃胶囊）。发行走 `v2.x.y` 之类的总 tag，一个 release 里放当次要发的包——不必三插件同版。发行工具生成标准 ZIP 插件包、逐资源 SHA-256、商店目录及总摘要；桌面安装器与业务插件分别在各自仓库发布。
+**当前版本**（以 `catalog/stable.json` 为唯一权威）：飞书 **2.2.0**、Clash **2.4.7**、Magpie **2.4.7**（exe `v0.1.4344+fish.47`，补全 `.rt` 等外圈/嵌套液态玻璃、移除 `.rt-hub` 黑环与路由组/请求列表黑块交互态、统一全站按钮玻璃样式、修复 `--ctl-fg` 与 `::placeholder` 调色命中及紫色 Obsidian 图标；Clash 修复 TUN 服务自删、竞态断连、并发锁与网速优化，及输入框次要文字着色、节点组下滑展开、长日志换行与设置头部 `16px` 边距）。发行走 `v2.x.y` 之类的总 tag，一个 release 里放当次要发的包——不必三插件同版。发行工具生成标准 ZIP 插件包、逐资源 SHA-256、商店目录及总摘要；桌面安装器与业务插件分别在各自仓库发布。
 
 ## 身份表
 
@@ -28,7 +28,7 @@
 
 | 资源 | 当前开发验证来源 | 处理方式 |
 | --- | --- | --- |
-| Magpie | `yetone/magpie`，基线 `v0.1.4344`，按 [自编译说明](../../plugins/magpie/tools/README.md) 加 `patches/` 最新补丁自行构建（版本标识 `v0.1.4344+fish.46` / FileVersion `0.1.4344.46`） | 独立进程；逐文件摘要记录于插件清单 |
+| Magpie | `yetone/magpie`，基线 `v0.1.4344`，按 [自编译说明](../../plugins/magpie/tools/README.md) 加 `patches/` 最新补丁自行构建（版本标识 `v0.1.4344+fish.47` / FileVersion `0.1.4344.47`） | 独立进程；逐文件摘要记录于插件清单 |
 | mihomo | v1.19.15，`mihomo-windows-amd64-compatible-v1.19.15.zip` | 校验下载后暂存可执行文件，首次按需启动 |
 | Node SDK | 同版 Dock 仓的 `sdk/node/plugin.mjs` | 复制到各插件，与宿主 API 1 联调 |
 
